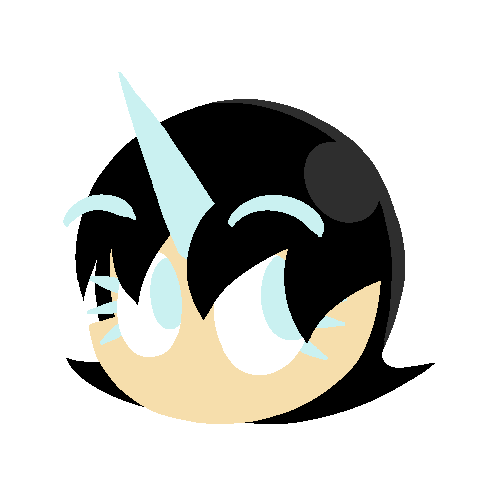
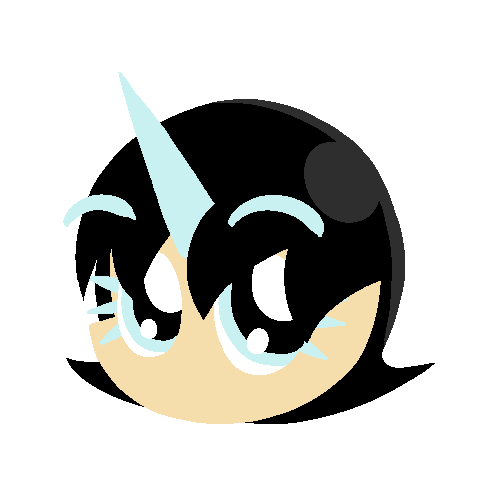
add img

Changed region(s): [[0.42, 0.51, 0.63, 0.75], [0.24, 0.51, 0.39, 0.72]]

diff --git a/changelog/changelog.md b/changelog/changelog.md
@@ -9,6 +9,12 @@ eleventyNavigation:
 
 # Changelog
 
+## 2024-12-04
+
+- Joined bucket webring.
+- Added `pearl snake.png`.
+- Character edits.
+
 ## 2024-12-03
 
 - Added some new buttons.
